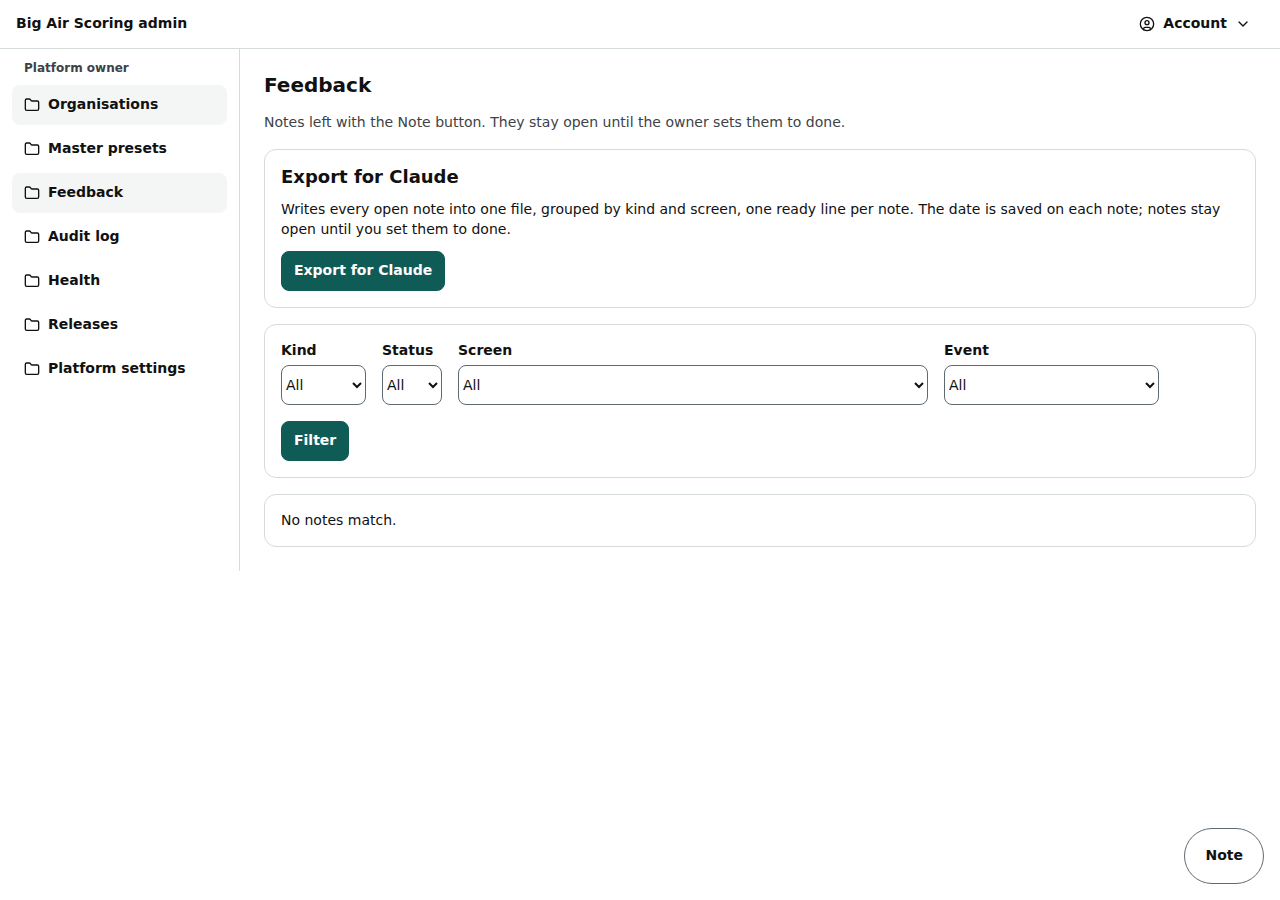
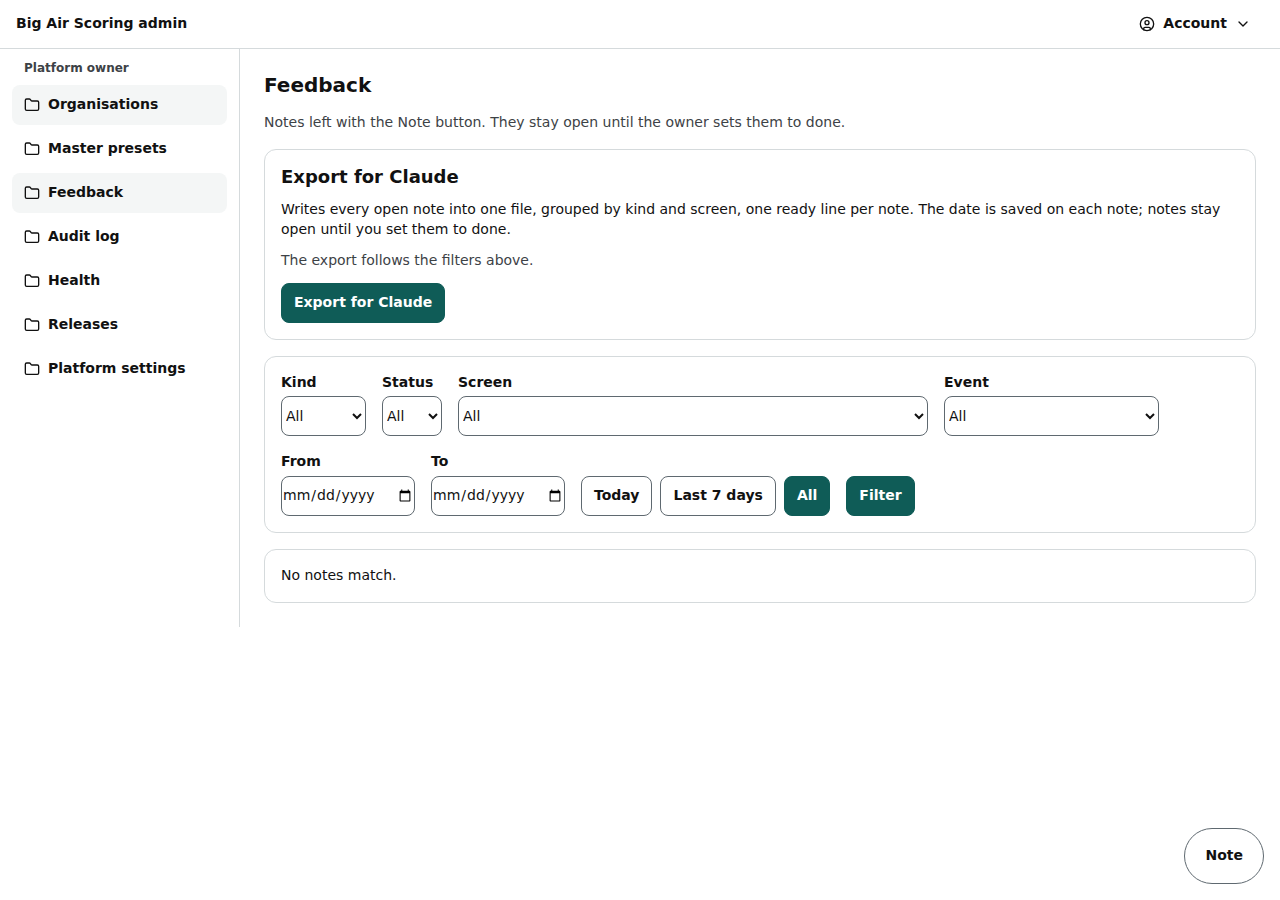
docs: Polish 2b — manual pages, changelog 0.12.0, release entry, STATUS, AUDIT A1a-7 fixed; version 0.12.0
Claude-Session: https://claude.ai/code/session_01TRoX3SARAkWqz1XcM91nwr

Changed region(s): [[0.2188, 0.28, 0.9688, 0.6533], [0.7188, 0.3733, 0.7812, 0.4667], [0.875, 0.4356, 0.9062, 0.4667]]

diff --git a/e2e/manual-shots.spec.ts b/e2e/manual-shots.spec.ts
@@ -197,6 +197,15 @@ test("manual screenshots", async ({ page, context, browser }) => {
       await shot(page, name, LAPTOP, 1200);
       await shot(page, name, PHONE, 1200);
     }
+    // the Event step's "Public page" card (behind More settings)
+    await open(page, `${base}/event`);
+    await page.setViewportSize(LAPTOP);
+    await expect(async () => {
+      if (!(await page.getByTestId("public-page-settings").isVisible())) await page.getByTestId("advanced-toggle").click({ timeout: 3000 });
+      await expect(page.getByTestId("public-page-settings")).toBeVisible({ timeout: 2000 });
+    }).toPass({ timeout: 30_000 });
+    await page.addStyleTag({ content: "nextjs-portal { display: none !important; }" }).catch(() => undefined);
+    await page.getByTestId("public-page-settings").screenshot({ path: path.join(OUT, "org-event-public-page-1280.png") });
     await open(page, `${base}/divisions`);
     await page.waitForLoadState("networkidle").catch(() => undefined);
     await page.setViewportSize(LAPTOP);
@@ -315,6 +324,11 @@ test("manual screenshots", async ({ page, context, browser }) => {
     await shot(pub, "public-event", LAPTOP, 2000, true);
     await open(pub, `/screen/${simSlug}`);
     await shot(pub, "big-screen", LAPTOP, 2500, true);
+    // the same page in Day colours (this browser's own choice, undone straight after)
+    await pub.evaluate(() => window.localStorage.setItem("bigair-screen-mode", "day"));
+    await pub.reload();
+    await shot(pub, "big-screen-day", LAPTOP, 2500, true);
+    await pub.evaluate(() => window.localStorage.removeItem("bigair-screen-mode"));
 
     // the spotter's screen: this login takes the spotter seat (judge 1 goes back to the simulator)
     await open(judgeTab, `/org/events/${simId}/simulate/view?as=seat&seat=${spotter.id}`);

diff --git a/docs/AUDIT.md b/docs/AUDIT.md
@@ -13,7 +13,7 @@ Branch `audit-1a`, 3 Oct 2026, product version 0.10.1. Scope: the scoring, ladde
   - **Fix at both ends.** Server: migration `20261019100000_fix_audit_1a_score_step.sql` adds the check (the division's own scale, overrides included) to the four write functions and to a trigger for direct table writes by signed-in users; refusals are `SCORE_OFF_STEP: step|below|above` and `SCORE_OUT_OF_RANGE: low|high`, shown as "That score is not on the 0.1 step. Use 7.2 or 7.3." and "That score is outside the scale (0 to 10)." with their Learn more link in the manual. The head judge's server action gives the same sentences. Engine: `computeHeat` never throws for a mark any more. An off-step value is counted as the nearest step (halves up), a value outside the scale as the nearest end, both written in the rider's explanation; something that is not a number, or a criteria mark that cannot be read, is left out (that judge is then "missing", which blocks Publish). `judgeTrickScore` stays strict. New: `off-step.test.ts`, extended `head-validate.test.ts`, `tests/rls/score-step.test.ts` and `tests/rls/score-flow.test.ts` (a whole heat through the real write functions as signed-in users, then Publish), both run against the hosted project after the migration was applied. The migration's check function was run on a throwaway Postgres 16 against 21 cases (on step, off step, outside, NaN, partial criteria, a 0.5 step override, a missed mark, the owner path) and gave the expected result in each.
   - *Not done, for Polish 2b:* the typed pad refuses silently. The judge sees the red box but no sentence; an off-step typed value could name the step (the text is ready in `copy.liveErrors.codes.SCORE_OFF_STEP`). The engine's rounded-mark note is in the explanation only: it is not a Publish blocker and the head console does not highlight it.
 - **A1a-4 and A1a-5 left for after the event, on purpose; decision of the owner (3 Oct 2026): "never shorter than asked".** They do not come from the same helper: Shift truncates the projected start to HH:MM (`actions.ts`), the badge uses `Math.round` of the exact difference (`drift.ts`). The owner chose the same rule as the +1 minute and Pause break buttons: when the next heat's projected start has seconds, Shift +N rounds **up** to the next whole minute, so it never moves the heat less than N minutes. **Consequence to know on the day: the board (which shows HH:MM, seconds dropped) may then show N + 1 minutes of movement** (for example a heat projected at 10:18:40, Shift +5, now starts 10:24, where the board showed 10:18 before). The lateness badge (A1a-5) can still differ by 1 minute from the two times on the board for the same reason. When this is built after the event: Shift uses `roundUpToMinute` as `extendBreak` does (A1a-4), and the badge is worked out from the two displayed minutes (A1a-5). Their three tests stay `.fails` until then.
-- **Still open as before:** A1a-2 (handled by procedure: lock the draw with 24 first) and A1a-7 (don't copy plans), A1a-6 (rule question).
+- **Still open as before:** A1a-2 (handled by procedure: lock the draw with 24 first) and A1a-6 (rule question). **A1a-7 (copying a plan) is fixed in Polish 2b (0.12.0)**: a copy brings only the heats that have not ended and never the other day's breaks or pins. **The silent typed-pad refusal is fixed in Polish 2b** too: the pad shows the server's sentence under the box.
 
 ## Summary (one page)
 
@@ -21,7 +21,7 @@ Branch `audit-1a`, 3 Oct 2026, product version 0.10.1. Scope: the scoring, ladde
 
 - **Fix in code before Thursday (small):** A1a-1. Two riders on the same total who both have no counted trick (for example both crashed everything and got the same Impression) are not treated as tied. The engine says the tie was "resolved by highest counted trick", ranks them in slot order, and Publish is not blocked. In a heat of 3 where only the winner goes on, that picks the wrong rider. The fix is one line in `rank.ts`.
 - **Handle by procedure on Thursday (or the owner decides a rule change):** A1a-2. With "exactly 3 per heat", one withdrawal before the draw is locked (24 → 23) turns Round 1 into 11 heats, 10 of them 1 v 1, and the event goes from 15 heats to 19. **Procedure:** confirm (lock) the draw with all 24 riders, then record no-shows as DNS. A locked draw keeps 15 heats, and a heat of 3 runs with 2.
-- **Handle by procedure:** A1a-7. Don't use "Copy Thursday's plan to Friday". Build Friday's run order from Friday's heats only. A copied plan shows Thursday's heats again, runs Thursday's lunch break again on Friday morning (pushing the 10:00 first heat to 10:20), and the drift badge reads hours early.
+- **A1a-7: fixed in Polish 2b (0.12.0).** (Until then: don't use "Copy Thursday's plan to Friday". Build Friday's run order from Friday's heats only. A copied plan shows Thursday's heats again, runs Thursday's lunch break again on Friday morning (pushing the 10:00 first heat to 10:20), and the drift badge reads hours early..) Now a copy brings only the heats that have not yet ended and never the other day's breaks or pins; the page says "Copied ‹n› heats — add this day's breaks and the first heat's pin".
 - **Can wait until after the event:** A1a-3 (one bad score value blanks the whole heat), A1a-4 (Shift +N can be up to 59 s short), A1a-5 (drift badge can be 1 min off the times on the board), A1a-6 (the Impression tie-breaker can never decide in this preset).
 
 What held up (each is now a test in the suite):
@@ -32,7 +32,7 @@ What held up (each is now a test in the suite):
 Test files (new, nothing else changed):
 - `src/lib/engine/scoring/audit-1a-gouna.test.ts`: 21 passing, none marked `.fails` (A1a-1 and A1a-3 fixed in 0.11.1)
 - `src/lib/engine/ladder/audit-1a-gouna.test.ts`: 28 passing, 1 marked `.fails` (A1a-2)
-- `src/lib/engine/schedule/audit-1a-gouna.test.ts`: 12 passing, 3 marked `.fails` (A1a-4, A1a-5, A1a-7)
+- `src/lib/engine/schedule/audit-1a-gouna.test.ts`: 13 passing, 2 marked `.fails` (A1a-4, A1a-5); A1a-7 fixed in Polish 2b
 
 A test marked `.fails` describes the correct behaviour and fails today. When the fix lands, vitest reports it as "unexpectedly passed", and the fix session then removes `.fails` and deletes the matching "… today" test, which pins down the current wrong behaviour.
 

diff --git a/docs/RELEASES.md b/docs/RELEASES.md
@@ -12,6 +12,37 @@ How to write an entry (copy the newest one):
 - A heading `## ‹version› — ‹date› {#release-‹version with dashes›}`, then a line `PR: #‹number›`.
 - `### What changed` (a short list in plain words), `### What to test` (one `- [ ] ` line per check, or "Nothing to test on the live address."), `### Known issues` (a short list, or "None known.").
 
+## 0.12.0 — 3 Oct 2026 {#release-0-12-0}
+
+PR: #31
+
+### What changed
+- **One pause:** pausing a simulated heat from the head judge's console or from the simulator is now one state — the heat clock and the virtual officials stop together and resume together, from either place.
+- **Live scores pill** beside Publish on the console (laptop and phone), out of the More menu.
+- **Big screen colours:** Day and Dark; tap or move the mouse for the button, **D** on a laptop; remembered per browser; the Event step sets the default.
+- **Admin → Feedback:** date filter, tick boxes, Select all, Set done / Reopen many notes at once; the export follows the filter.
+- **Public page tabs:** the organiser switches tabs off on the Event step; an old link to a hidden tab lands on the first visible tab. Join hides itself while registration is closed (the join page itself keeps working for officials).
+- **Copy a plan to another day:** only heats that have not ended, no breaks or pins (audit A1a-7 fixed).
+- **Judge pad:** a typed score off the step says why, under the box.
+- **Needs the database changes** `20261020100000_polish2b_one_pause.sql` and `20261020100100_polish2b_public_site_settings.sql` (both applied to the hosted project).
+- **Tests only:** the simulator RLS test describes the one-pause behaviour; the simulator browser test taps the speed button until the page has loaded (the button itself works); the head judge browser test expects the Learn more link; the trick base browser tests follow the owner's published master edits and step aside while an owner draft is open.
+
+### What to test
+- [ ] On the Demo's simulation (or a throwaway one), set the speed to ×10 and Start. Open View as → Head judge laptop. Press **Pause** on the console: the simulator panel says **Paused** within a second or two and no new attempts or scores appear for 10 seconds. Press **Resume** on the simulator: both run again. Then press **Pause** on the simulator and **Resume** on the console.
+- [ ] On the head console of a started heat, find **Live scores: Public** (or Hidden) next to **Publish**, on a laptop and on a phone. Tap it: it flips; “Division default” disappears while it differs from the division's setting. Tap again: it follows the division's setting again. **More** no longer has a live switch.
+- [ ] Open the big screen (/screen/‹event›). Move the mouse or tap: a Day / Dark button appears in the top left and goes away after three seconds. Tap it: the colours switch. Reload: the choice is remembered. Press **D**: it switches back.
+- [ ] Event step → More settings → **Big screen: colours**: choose Day, save, open the big screen in a private window: it opens in Day.
+- [ ] Admin → Feedback: click **Today**, tick three notes, press **Set done**, confirm: it says “3 notes changed”. Select them again and press **Reopen**. Press **Export for Claude**: only the notes of the filtered list are in the file.
+- [ ] Event step → More settings → **Public page**: switch **Rules** and **Join** off, save. Open the public event page: the tabs no longer show them. Open the old address /e/‹event›/rules: it lands on the first tab, not on “not found”.
+- [ ] Run order, on a day with no plan: **Copy ‹other day›'s plan to ‹day›** brings only the heats that have not ended, no breaks and no pins, and says “Copied ‹n› heats — add this day's breaks and the first heat's pin”.
+- [ ] On a judge's phone (or the Design page), type 7.25 in the small score box on a 0.1 step: **Save** stays grey and “That score is not on the 0.1 step. Use 7.2 or 7.3.” shows under the pad with a **Learn more** link.
+
+### Known issues
+- The console shows a pause made on the simulator through its live connection (under a second on the live address); where live connection is blocked it asks every 5 seconds.
+- A pause of one heat pauses the simulator's virtual officials for the whole simulated event (one state), also when another heat of another division is running.
+- Removing an outside leaderboard shifts the numbering of the ones after it; a tab switched off by number may then belong to the next one.
+- The master trick base has an unpublished draft of the owner on the hosted project, so the trick base editor browser tests step aside until it is published or discarded.
+
 ## 0.11.1 — 3 Oct 2026 {#release-0-11-1}
 
 PR: #29

diff --git a/docs/STATUS.md b/docs/STATUS.md
@@ -1126,3 +1126,25 @@ See the release entry 0.11.0 in docs/RELEASES.md (8 checks on Demo).
 ### How to test
 - Release entry 0.11.1 in docs/RELEASES.md (6 checks).
 
+
+## Polish 2b – simulator pause, console menu, big screen colour, feedback admin, public tabs, copy a plan (branch `polish-2b`, 3 Oct 2026)
+
+Started from main 0.11.0, rebased onto main 0.11.1 (fix session, #29); version 0.12.0 (a feature). No change to the engines or the score-saving functions.
+
+### Done
+1. **One pause.** Reproduced on main first (Playwright: Pause on the console left the simulator "Playing"; afterwards the simulator's Resume resumed nothing because it only resumed heats it had paused itself). Migration `20261020100000_polish2b_one_pause.sql`: a trigger moves `sim_control.state` with every heat going running → paused (console, wind Hold or simulator) and paused → running; `sim_resume_heats` resumes every paused heat; Stop stays stopped. The panel's Pause / Resume now call the database straight from the browser (server actions of one tab wait for each other, so behind a tick they took seconds) and the panel reads the state every second; the tick looks at the state again before each of its moves. Playwright `e2e/one-pause.spec.ts` (×10, View as head judge, both directions, 10 s of silence): 3 of 3 passes after the fixes.
+2. **Live-scores pill** beside Publish (laptop and phone), pure rule in `src/lib/live/live-scores.ts` (heat → division → event → "after publish"; a tap that lands on what the setting gives makes the heat follow the setting again). The held final (Hold / Release) stays in More. The three buttons `live-follow` / `live-on` / `live-off` are gone with the control they identified; their test now uses `live-pill`. The old menu item had no confirmation, so the pill has none.
+3. **Big screen Day / Dark.** `ScreenFrame` (control on mouse move / tap, hides after 3 s, **D**, remembered in localStorage), CSS variables `bs-dark` / `bs-day`, Event step radio (default Dark). `e2e/screen-colour.spec.ts`: before the event, running heat, published result, sponsors, wind hold, held final and podium in both modes (contrast at least 7:1, same digit sizes); screenshots looked at.
+4. **Admin → Feedback.** Date filter and quick picks, tick boxes, Select all, Set done / Reopen (asks once, counts), export follows the filter. `e2e/feedback.spec.ts`.
+5. **Public tabs.** Event step card, `src/lib/public/tabs.ts`, a guard on every tab page, migration `20261020100100_polish2b_public_site_settings.sql` (the public site function now also tells `screenColourMode`, `publicTabsOff`, `registrationOpen`). `e2e/public-tabs.spec.ts`.
+6. **Copy a plan.** Only heats that have not ended, no breaks, notes or pins; the page says "Copied N heats — add this day's breaks and the first heat's pin". Audit A1a-7 test flipped (now passing); AUDIT.md says fixed in Polish 2b.
+7. **Judge pad.** The server's sentence under the box with Learn more (to the judge page, `#ju-pad-step`); the same component serves the head judge's entry.
+8. **Trick base editor browser test.** Re-run: it fails again, but not in the editor. The shared master base has an unpublished draft (v7) by the platform owner, made at 10:10 today; the editor opens that draft, so its counts describe the owner's work. Published v6 (the owner's, yesterday) also switches "Triple loop" off by default, which made `trick-base.spec.ts` stale. I did not touch the draft or the editor: `trick-base.spec.ts` now reads the default-off blocks from the published master version; `trick-base-editor.spec.ts` skips with a message while an unpublished master draft exists (so it can never save over the owner's work). Not re-verified with a clean master base.
+9. **Manual.** The Draw step already had a page; it now also lists the refusals it can show and its Learn more targets. Updated pages: console laptop and phone, big screen (+ Day picture), Admin Feedback, Event step (+ Public page picture), public event, run order, judge, simulator; changelog 0.12.0; settings and errors regenerated.
+
+### From the fix session (#29)
+(a) `tests/rls/simulator.test.ts` now describes the one-pause behaviour (15 passed). (b) The ×20 button is not broken: the first tap lands before the page has loaded (the panel is drawn by the server first) and does nothing; the test taps until the button answers (the first tap failed, the second worked). (c) The head judge browser test expects the refusal sentence with its Learn more link.
+
+### Not done / not verified
+- Not tried on a real phone.
+- Pause shown on the console uses realtime on the live address; in this sandbox (websockets blocked) the console asks every 5 s, so the "within a second" for the console side could not be measured here.

diff --git a/docs/manual/settings.md b/docs/manual/settings.md
@@ -29,7 +29,9 @@ Organiser → event → **Event** (step 1). Saved with **Save event** (or **Next
 | {#set-event-readycall} **Ready call (minutes before the heat)** | How long before a heat riders are called to the ready area. This is the only place it is set: the run order, the timetables and the rider pages all use it. Changes the ready-area call times in the run order, the public timetable and the rider pages. | 15 minutes | 15 · stored as `settings.readyCallMin` |
 | {#set-event-livepoll} **Live update every (seconds)** | How often public pages ask for new scores. Lower is faster but uses more data. Changes how quickly the public pages and the big screen show new scores. | 7 seconds | 7 · stored as `settings.livePollSec` |
 | {#set-event-screenrotate} **Big screen: seconds per page** | How long each page of the big screen stays up before it moves to the next (live heat, timetable, last results, sponsors). Changes how long each page stays on the big screen. | 20 seconds | 20 · stored as `settings.screenRotateSec` |
+| {#set-event-screencolour} **Big screen: colours** | The colours the big screen opens in: Dark (white on a dark ground) or Day (dark text on a light ground, for bright sun). A screen can switch with a tap or the D key, and it remembers its own choice. Changes the colours the big screen opens in; each screen can still switch for itself. | Dark for a tent, Day for the open beach | `dark` · stored as `settings.screenColourMode` |
 | {#set-event-leaderboards} **Other leaderboards (extra tabs on the public site)** | A leaderboard that is kept somewhere else becomes a tab on the public site. It opens in a new tab, or is shown inside the site if that website allows it. Shown as an extra tab on the public event pages. | Highest Jump — https://woo.example.com/highest-jump | none · stored as `settings.externalLeaderboards` |
+| {#set-event-publictabs} **Public page** | Every tab of the public event page has a switch. A tab you switch off disappears, and an old link to it lands on the first tab that is left. Changes the row of tabs at the top of the public event page. | Switch off Rules if the rules are read out on the beach. | none · stored as `settings.publicTabsOff` |
 | {#set-event-maxrunning} **Heats that can run at the same time** | How many heats may be running (or paused) at the same moment. The head judge cannot start another heat until one has ended. Changes when the head judge's Start button is available on the console. | 1 means one heat at a time | 1 · stored as `settings.maxRunningHeats` |
 | {#set-event-judgeslog} **Judges may log attempts too (not only spotters)** | Normally only spotters log attempts. Tick this if judges should log them too. Adds the Log attempt button to the judges' phones. | Useful with a small team and no spotter. | off · stored as `settings.judgesMayLogAttempts` |
 | {#set-event-windbanner} **Show the wind-call banner on public pages and the big screen** | Show the current wind call at the top of public pages and the big screen. Shown at the top of the public pages and the big screen. | “Wind: light, heats on hold” | on · stored as `settings.windCallBanner` |

diff --git a/docs/manual/screens/judge.md b/docs/manual/screens/judge.md
@@ -2,7 +2,7 @@
 
 The judge's phone at /judge/‹event›: a scoring queue during the heat, then the Impression / Variety score for every rider and Submit.
 
-Last checked: 2 Oct 2026 · Product version 0.9.0
+Last checked: 3 Oct 2026 · Product version 0.12.0
 
 ## What it is for {#ju-purpose}
 
@@ -17,7 +17,7 @@ Judges watch the water, not the phone. Each attempt the spotter logs arrives as 
 |---|---|
 | Header | Heat and seat name, the slim timer (Running / Paused / Time up / On hold), the connection badge (**Synced**, **Pending ‹n›**, **Offline**, **Failed — tap to retry**), the time now, **Details**. |
 | Queue card | The attempt: Rider label (colour word, name), attempt number, trick name, “Repeat — 2nd time · you gave 7.0 before”. A crash needs no score (“Crashed — no score needed”). |
-| Score pad | Tap the whole number then the decimal, or type in the small box (greyed “0.0”); **Save**. With criteria (Height, Extremity…) one tab per criterion; the trick score appears when every criterion is set. Values off the scale's step are refused: the pad greys out Save and outlines the box in red, and the database refuses them too (“That score is not on the 0.1 step. Use 7.2 or 7.3.”). |
+| Score pad | Tap the whole number then the decimal, or type in the small box (greyed “0.0”); **Save**. With criteria (Height, Extremity…) one tab per criterion; the trick score appears when every criterion is set. Values off the scale's step are refused: the pad greys out Save, outlines the box in red and says why under the pad (“That score is not on the 0.1 step. Use 7.2 or 7.3.” with a **Learn more** link to [this page](#ju-pad-step)), and the database refuses them too (“That score is not on the 0.1 step. Use 7.2 or 7.3.”). |
 | **Missed** | “I did not see it. No score from me; the panel average uses the others.” |
 | **Flag** | “alert the head judge. I still score.” — That was a crash / That was a landing / Wrong rider / Duplicate / Other. |
 | History (**Scored**) | Tap a row to correct it (“Correcting attempt ‹n›”, **Back to the queue**). |
@@ -26,6 +26,10 @@ Judges watch the water, not the phone. Each attempt the spotter logs arrives as 
 | Sound, theme, size | Sound behind a tap; Daylight / Dark; Normal / Large. |
 
 After Submit, or when the head judge takes the heat into review, scores are locked (“Your sheet is locked. Ask the head judge to reopen it.”); the head judge can reopen one judge's sheet or edit a score with a reason.
+
+## A typed score that is off the step {#ju-pad-step}
+
+The pad only produces scores on the step, but the small box accepts typing. A typed score between two steps (7.25 on a 0.1 step) turns the box red, keeps **Save** grey and shows the same sentence the database would give, naming the step and the two nearest allowed scores (“Use 7.2 or 7.3.”). A score outside the scale says so (“That score is outside the scale (0 to 10).”). Type one of the allowed scores, or tap it on the pad. The head judge's score and sheet entry use the same pad and show the same sentence.
 
 ## What it depends on {#ju-depends}
 

diff --git a/docs/manual/screens/organiser-event.md b/docs/manual/screens/organiser-event.md
@@ -2,7 +2,7 @@
 
 Step 1 of an event (/org/events/‹id›/event, or **+ New event** on the events list): name, dates, place, time zone, branding, what the public sees, timing, registration, the officials' join details, rehearsal and visibility.
 
-Last checked: 3 Oct 2026 · Product version 0.9.2
+Last checked: 3 Oct 2026 · Product version 0.12.0
 
 ## What it is for {#ev-purpose}
 
@@ -27,7 +27,8 @@ Everything that belongs to the whole event rather than one division. Each settin
 | **Web address (slug)** | The last part of …/e/‹slug› and the **event code** officials type. Changing it on a published event breaks shared links and QR codes: tick “I understand, change the address” first. **Open the public page in a new tab** and **Copy link** sit next to it. |
 | **Branding** | **Event logo** and **Sponsor logos** (name, website, logo, ↑ ↓ to order, **Remove sponsor**, **+ Add sponsor**). PNG, JPEG or WebP, up to 2 MB. |
 | **Rehearsal** | **Simulation event (never public)** tick box (only before any heat has started) and the **Simulate** link to the [Simulator](simulator.md). |
-| **Timing and officials** | **Ready call (minutes before the heat)** (default 15; the one place it is set), **Live update every (seconds)** (default 7), **Big screen: seconds per page** (default 20), **Heats that can run at the same time** (default 1), **Judges may log attempts too**, **Other leaderboards** (up to 6 extra public tabs, **+ Add leaderboard**), **Show the wind-call banner on public pages and the big screen**. |
+| **Public page** | A switch for every tab of the public event page — Home, Live, Results, Ladder, Placings, Rules, one per outside leaderboard, Join — all on by default. Switch a tab off and it disappears from the page; an old link to it lands on the first tab that is left. At least one tab stays on (the last one's switch is grey; Join does not count, because it hides itself while registration is closed). The big screen is not affected. |
+| **Timing and officials** | **Ready call (minutes before the heat)** (default 15; the one place it is set), **Live update every (seconds)** (default 7), **Big screen: seconds per page** (default 20), **Big screen: colours** (Dark or Day; where the big screen opens until a browser chooses for itself; default Dark), **Heats that can run at the same time** (default 1), **Judges may log attempts too**, **Other leaderboards** (up to 6 extra public tabs, **+ Add leaderboard**), **Show the wind-call banner on public pages and the big screen**. |
 | **Rider registration** | **Registration** Open / Closed, **Closing day**, **Closing time**, **Most riders per division**, **Message shown when registration is closed**, and the link to the public registration page (it only works once the event is published). |
 | **Officials’ join details** | The join address and the **Event code**. Every official has their own PIN (made in the Officials step); there is no event-wide PIN. |
 | **Visibility** | **Published: the event is listed on the home page and its public pages work**. Unticked (draft), only your team sees it. |

diff --git a/docs/manual/screens/simulator.md b/docs/manual/screens/simulator.md
@@ -2,7 +2,7 @@
 
 /org/events/‹id›/simulate: rehearse an event — play it automatically at up to ×20, press a scenario, look at each person's screen, reset.
 
-Last checked: 3 Oct 2026 · Product version 0.11.0
+Last checked: 3 Oct 2026 · Product version 0.12.0
 
 ## What it is for {#si-purpose}
 
@@ -20,7 +20,7 @@ A rehearsal without riders on the water: virtual spotters log attempts, virtual 
 | Control | What it does |
 |---|---|
 | **Speed** ×1 / ×5 / ×10 / ×20 | A heat's length is divided when it starts (a 10-minute heat at ×10 lasts 1 minute); every phone and the public page read the shorter length. |
-| **Auto-play**: **Start**, **Pause**, **Resume**, **Stop** | Plays the day in run order. Runs while this tab is open; the line under it says what is happening (“‹heat› is running, 2:10 left.”, “Stopped at a blocker: …”). **Pause** also pauses the heat on the water (the same pause as the console's): the console says **Paused by the simulator**. **Resume** starts both again (a heat the head judge paused stays paused). **Stop** ends auto-play and leaves the heat paused. |
+| **Auto-play**: **Start**, **Pause**, **Resume**, **Stop** | Plays the day in run order. Runs while this tab is open; the line under it says what is happening (“‹heat› is running, 2:10 left.”, “Stopped at a blocker: …”). **Pause** is the same state as the head judge's **Pause** on the console: pressing it on either side pauses the heat clock and the virtual officials, and **Resume** on either side resumes both (each control shows the real state within about a second). **Pause** also pauses the heat on the water (the same pause as the console's): the console says **Paused by the simulator**. **Resume** starts both again (a heat the head judge paused stays paused). **Stop** ends auto-play and leaves the heat paused. |
 | **Skip to end of heat** | Ends the heat on the water now with the attempts logged so far; the virtual judges finish their scores and Impression / Variety scores at once and submit; the virtual head judge publishes if nothing blocks (a real person is waited for). Grey with “Available while a heat is running, paused or waiting to be published.” when there is none. |
 | **Run the whole event** | Plays every day's active run order in turn — every division, every round — at the speed chosen, until the finals are published, then stops (“The whole event is published …” in the log). A seat set to **Real** and a run order on hold are waited for. **Start** after **Stop** plays the day again; **Resume** after **Pause** carries on in the same mode. |
 | **Who plays** | Each judge, spotter and the head judge: **Virtual** (the simulator) or **Real** (a phone joins with the PIN; the simulator leaves the seat alone). Each seat says who holds it now: **Simulator**, **You (View as) · seen 4 s ago**, **A phone (PIN) has this seat**, or **Waiting for a phone**. **Give back to the simulator** (or **Virtual**) gives a seat you or a phone hold back to the simulator at once. **Let go** frees a seat you hold. |

diff --git a/docs/manual/screens/organiser-draw.md b/docs/manual/screens/organiser-draw.md
@@ -2,7 +2,7 @@
 
 Step 5 of an event (/org/events/‹id›/draw): each division's ladder made from its format and its confirmed riders, moved by hand if needed, then locked.
 
-Last checked: 2 Oct 2026 · Product version 0.9.0
+Last checked: 3 Oct 2026 · Product version 0.12.0
 
 ## What it is for {#dr-purpose}
 
@@ -27,6 +27,24 @@ The draw puts every confirmed rider in a seat of a Round 1 heat (in seed order, 
 | **Lock draw** / **Unlock draw** | Lock when final. Unlock needs a reason of at least 5 characters (written to the log). |
 | **Print / PDF** | Opens a printable page (one A4 landscape page per division, in colour, with estimated times) with **Print or save as PDF** and **Export PNG** (a picture to send on WhatsApp). |
 | **Checks** | Warnings about the whole ladder (a rider without a seat, a heat of the wrong size). “The checks warn you; they never stop you.” |
+
+## Refusals it can show {#dr-refusals}
+
+Each sentence below appears under the button you pressed, with a **Learn more** link to its row in [Errors](../errors.md).
+
+| Sentence | Meaning and fix |
+|---|---|
+| “The draw is locked. Unlock it (with a reason) to change it.” ([row](../errors.md#err-draw-errors-locked)) | A locked draw cannot be changed or regenerated. **Unlock draw** with a reason of at least 5 characters, change it, lock again. |
+| “A heat has started, so that cannot be changed.” ([row](../errors.md#err-draw-errors-started)) | Started and finished heats never change, and the draw cannot be regenerated. |
+| “Choose a format for this division first.” ([row](../errors.md#err-draw-errors-noformat)) | The division has no format: Divisions → Format. |
+| “There are no confirmed riders to draw.” ([row](../errors.md#err-draw-errors-noriders)) | Confirm riders in the Riders step first. |
+| “There is no draw yet.” ([row](../errors.md#err-draw-errors-nodraw)) | Lock and Unlock need a draw: press **Generate draw**. |
+| “Write a reason of at least 5 characters.” ([row](../errors.md#err-draw-errors-reasonrequired)) | **Unlock draw** asks why; the reason goes to the log. |
+| “The format cannot make a draw: ‹why›” ([row](../errors.md#err-draw-errors-badformat)) | The format has no ladder for this number of riders: fix it in Divisions → Format. |
+| “You are not allowed to change this draw.” ([row](../errors.md#err-draw-errors-notallowed)) | Only organisers of the event change its draw. |
+| “That did not work. Nothing was changed.” ([row](../errors.md#err-draw-errors-failed)) | Nothing was saved: try again; if it repeats, see [Troubleshooting](../troubleshooting.md). |
+
+**Learn more targets of this page:** every “?” on the step opens the matching row of [Settings](../settings.md); every refusal above opens its row of [Errors](../errors.md); the dependency of the next seat is explained in the [dependency map](../dependencies.md#dep-next-seat).
 
 ## What it depends on {#dr-depends}
 

diff --git a/docs/manual/changelog.md b/docs/manual/changelog.md
@@ -2,7 +2,23 @@
 
 One entry per product version: the date, what changed for users, and which manual pages were updated. Each entry links to its **release entry** (what to test on the live address, known issues), which the platform owner ticks off on Admin → [Releases](screens/admin-releases.md).
 
-Last checked: 3 Oct 2026 · Product version 0.11.1
+Last checked: 3 Oct 2026 · Product version 0.12.0
+
+## 0.12.0 — 3 Oct 2026 {#cl-0-12-0}
+
+Release entry: [0.12.0](/admin/releases#release-0-12-0) (platform owner only)
+
+**What changed for users**
+- **One pause (simulator):** the head judge's **Pause** on the console and the simulator's **Pause** are the same state. Pausing on either side pauses the heat clock and the virtual officials; **Resume** on either side resumes both; each side shows the real state within about a second.
+- **Console:** the per-heat live-scores switch is a pill beside **Publish** on the laptop and on the phone: “Live scores: Public” or “Live scores: Hidden”, one tap to change; “Division default” under it while the heat follows the division's setting. The **More** menu keeps the held final, the agreement report and the audit log.
+- **Big screen:** **Day** and **Dark** colours. A quiet button shows on mouse move or tap and hides after three seconds; **D** switches on a laptop; the browser remembers its choice; the Event step sets the default (**Big screen: colours**, Dark).
+- **Admin → Feedback:** a date filter (From / To; Today, Last 7 days, All), tick boxes with **Select all**, **Set done** and **Reopen** for many notes at once (asks once, says how many changed), and the export follows the filter.
+- **Public event page:** the organiser chooses its tabs (Event step → **Public page**, all on by default); Join also hides while registration is closed; an old link to a hidden tab lands on the first visible tab.
+- **Run order:** **Copy ‹day›'s plan to ‹day›** brings only the heats that have not ended and never the other day's breaks or pins (audit finding A1a-7).
+- **Judge pad:** a typed score off the step shows “That score is not on the 0.1 step. Use 7.2 or 7.3.” under the box, with a Learn more link; the head judge's score and sheet entry use the same pad.
+
+**Manual pages updated**
+- [Console on a laptop](screens/console-laptop.md), [Console on a phone](screens/console-phone.md), [Big screen](screens/big-screen.md), [Admin: Feedback](screens/admin-feedback.md), [Organiser: Event step](screens/organiser-event.md), [Public event page](screens/public-event.md), [Organiser: Run order](screens/organiser-run-order.md), [Judge screen](screens/judge.md), [Simulator](screens/simulator.md), [Organiser: Draw step](screens/organiser-draw.md) (the refusals it can show and its Learn more targets), [Settings](settings.md) and [Errors](errors.md) (generated).
 
 ## 0.11.1 — 3 Oct 2026 {#cl-0-11-1}
 

diff --git a/docs/manual/screens/console-laptop.md b/docs/manual/screens/console-laptop.md
@@ -2,7 +2,7 @@
 
 The head judge's working screen at /head/‹event› on a laptop or tablet (1280 px and wider): division tabs, the heat's timer and buttons, the run order with times, the break countdown, the live score table, Publish and everything around it.
 
-Last checked: 3 Oct 2026 · Product version 0.11.0
+Last checked: 3 Oct 2026 · Product version 0.12.0
 
 ## What it is for {#cl-purpose}
 
@@ -40,7 +40,8 @@ The head judge (the head judge seat, or an organiser of the event — an organis
 | Attempt menu | **Delete**, **Merge duplicate** (keeps the first logged attempt), **Edit attempt**, **Add attempt** (past the attempt cap only with a reason: “That rider has used every attempt. Adding one more is saved with your reason.”), judge absent for this attempt. |
 | Tick boxes | Select several attempts → **Merge** or **Delete**. |
 | Rider menu | **DNS (did not start)**, **DNF (did not finish)**, **DSQ (disqualified)**, **Interference**, **Clear status**, **Take back interference**. |
-| **More** | Live switch for this heat (**Follow the setting** / **Live** / **Not live**), agreement report (“‹judge›: 0.4 from the panel score on average, 1 outlier”), **Audit log** of the heat, theme and size, and the **Practice heat** panel on a simulation event. |
+| **Live scores: Public / Hidden** (a pill beside **Publish**) | One tap changes whether spectators see this heat live. It reads what the public sees now; “Division default” under it means the heat still follows the division's (or the event's) setting. Tapping when it follows the setting changes this heat only; tapping back to what the setting would give makes the heat follow the setting again. Shown from the moment the heat has started. |
+| **More** | The held final (**Hold result back** / **Release result**), agreement report (“‹judge›: 0.4 from the panel score on average, 1 outlier”), **Audit log** of the heat, theme and size, and the **Practice heat** panel on a simulation event. (The live-scores switch is not in this menu any more: it is the pill beside Publish.) |
 | **Flag-out** | When the format has one: “At ‹n› min the lowest ‹n› riders are flagged out.” → **Flag out…**. |
 
 ## The right column {#cl-right}

diff --git a/docs/manual/screens/organiser-run-order.md b/docs/manual/screens/organiser-run-order.md
@@ -2,7 +2,7 @@
 
 Step 6 of an event (/org/events/‹id›/schedule): the order of the day's heats and breaks, one or more plans per day, the pinned start times, and every time that follows from them.
 
-Last checked: 3 Oct 2026 · Product version 0.9.2
+Last checked: 3 Oct 2026 · Product version 0.12.0
 
 ## What it is for {#ro-purpose}
 
@@ -19,7 +19,7 @@ The timetable works like a spreadsheet: a row's end = its start + its length (wa
 | Control | What it does |
 |---|---|
 | **Day**, **Plan** | Which day and which of its plans you see; the active one is tagged “active”. Each day in the list says “Plan A – Sat 10 Oct active”, “2 plans, none active” or “no plan”. The step opens on today (the Go live checklist's **Fix** for “No run order is active for today” lands here with today chosen). |
-| **Create a plan for ‹day›**, **Copy ‹other day›'s plan to ‹day›** | Shown when the chosen day has no plan, never a grey screen. Create starts an empty plan named “Plan A – ‹day›” (change the name first if you like). Copy takes another day's active plan: its heats, breaks and the start times you pinned by hand — not its actual times or the pins the head judge's console wrote while that day ran. The first plan of a day is active at once. |
+| **Create a plan for ‹day›**, **Copy ‹other day›'s plan to ‹day›** | Shown when the chosen day has no plan, never a grey screen. Create starts an empty plan named “Plan A – ‹day›” (change the name first if you like). Copy takes another day's active plan: only the heats that have not yet ended, in their order — never that day's breaks, notes or pins, its actual times or a hold. The page then says “Copied ‹n› heats — add this day's breaks and the first heat's pin”. The first plan of a day is active at once. |
 | **Activate this plan** | Makes it the plan of that day (heats that started or finished stay where they are). |
 | **New plan** (with **Name of a new empty plan**), **Duplicate plan** (with **Name for the copy**), **Delete plan** | Manage plans. An active plan cannot be deleted. |
 | **Heats not in the run order** | **Add** one heat, **Add all ‹n›**, or drag a heat in. |
